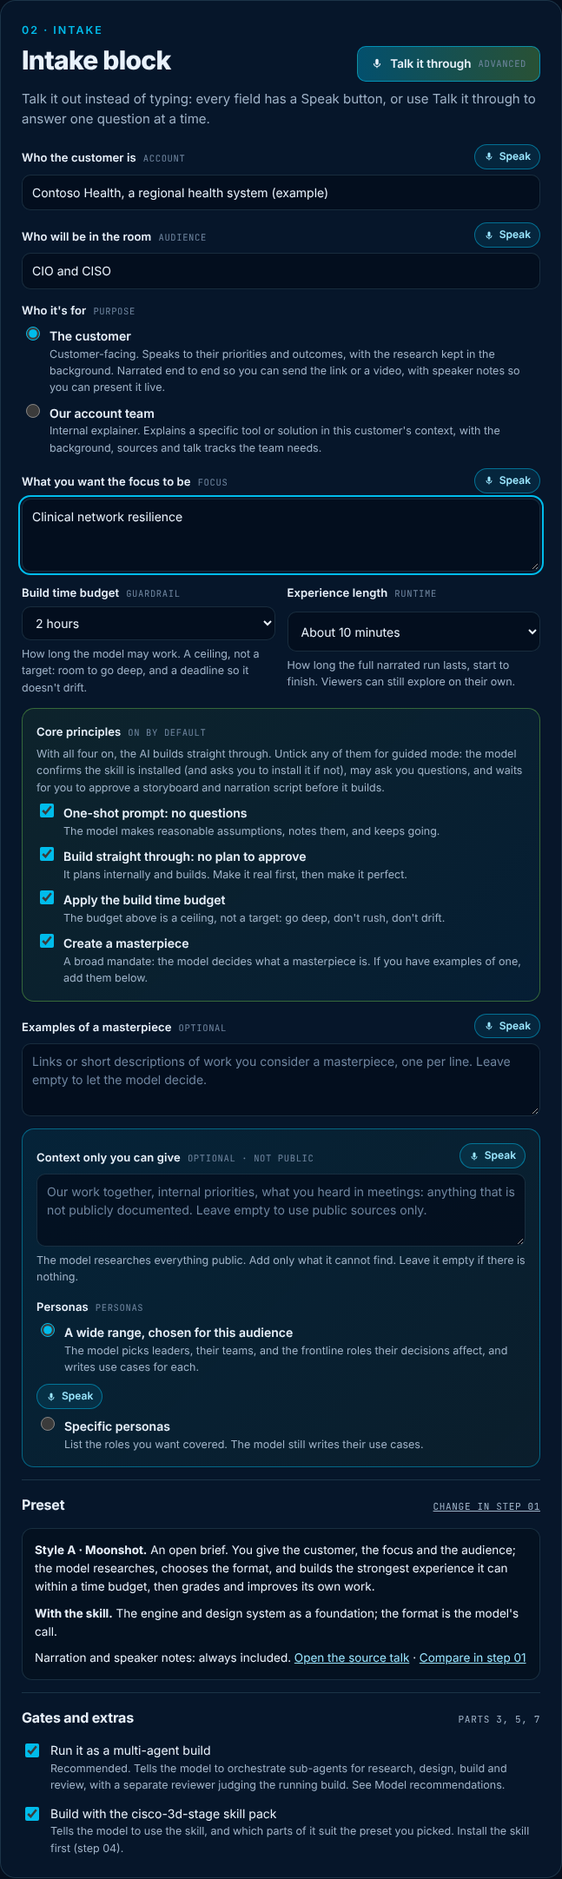
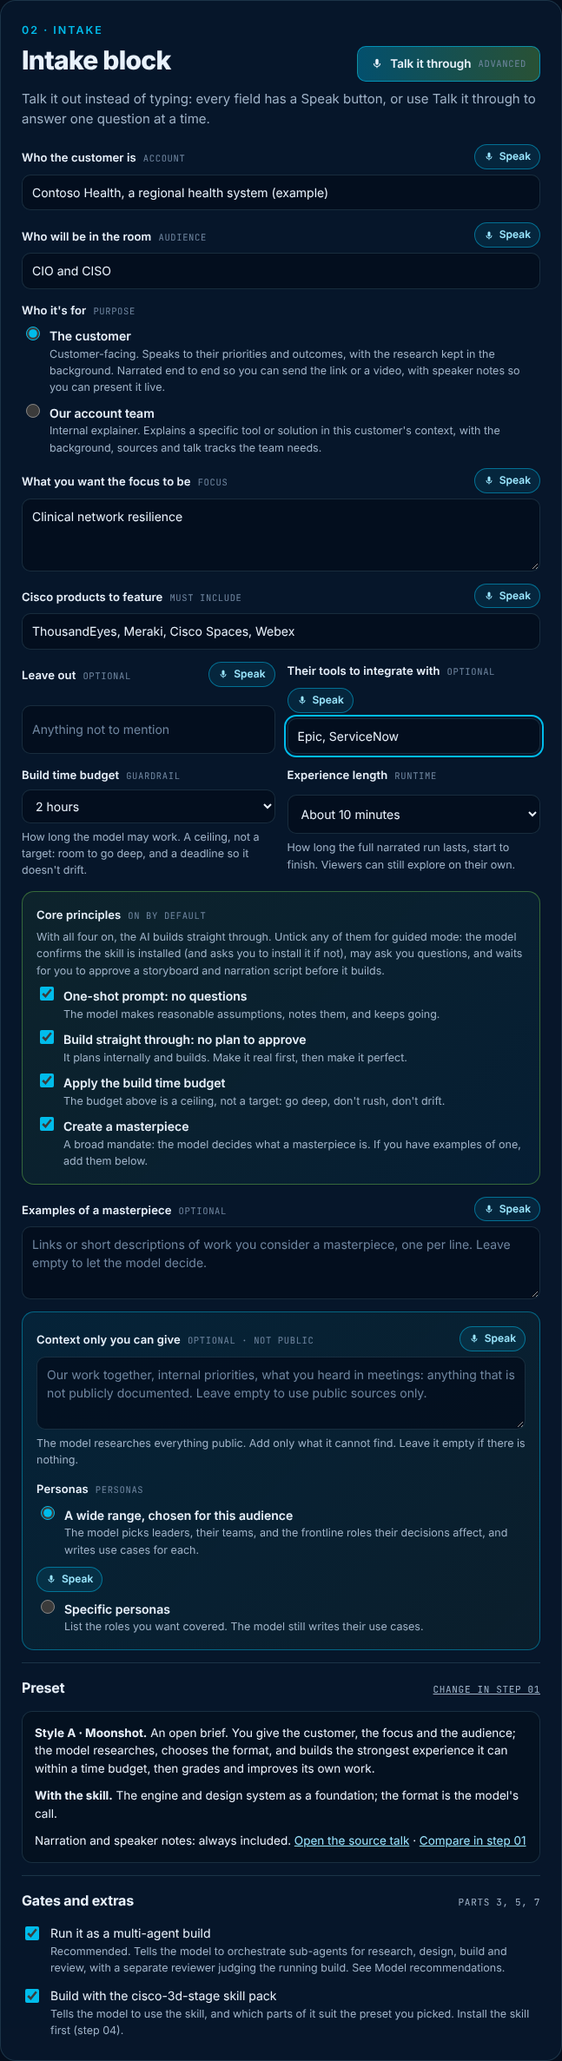
Rebuild the prompt around the CSX brief that worked
- Opening restores the original framework: Three.js in one self-contained
  app, real places and the people in them, persona or technology
  navigation, every scenario with Cisco and without
- New intake fields: Cisco products to feature, leave out, and the
  customer's tools to integrate with
- Research now ends in a build brief, with sources cited and modeled data
  labeled inside the app
- New finish line: publish, confirm it loads, test in a browser, hand back
- Shorter process sections; the skill's look is spelled out as a fallback
- README and screenshots updated

Claude-Session: https://claude.ai/code/session_01X663YSLF5CdbEPjMcVvjoP

Changed region(s): [[0.0309, 0.0, 0.9892, 1.0], [0.5564, 0.7434, 0.5873, 0.7744]]

diff --git a/index.html b/index.html
@@ -371,6 +371,20 @@ footer { font-size: 12.5px; color: var(--muted); display: grid; gap: 6px; max-wi
             <label for="f-discuss"><span class="structured-only">What to discuss</span><span class="moon-only">What you want the focus to be</span> <span class="key">FOCUS</span></label>
             <textarea id="f-discuss" name="discuss" placeholder="The one Cisco solution or use case, and the business problem it solves"></textarea>
           </div>
+          <div class="field">
+            <label for="f-products">Cisco products to feature <span class="key">MUST INCLUDE</span></label>
+            <input type="text" id="f-products" name="products" placeholder="e.g. ThousandEyes, Cyber Vision, ISE, Catalyst Center, Cisco Cloud Control">
+          </div>
+          <div class="row2">
+            <div class="field">
+              <label for="f-exclude">Leave out <span class="key">OPTIONAL</span></label>
+              <input type="text" id="f-exclude" name="exclude" placeholder="Anything not to mention">
+            </div>
+            <div class="field">
+              <label for="f-integrate">Their tools to integrate with <span class="key">OPTIONAL</span></label>
+              <input type="text" id="f-integrate" name="integrate" placeholder="e.g. Microsoft Sentinel, ServiceNow, Epic">
+            </div>
+          </div>
 
           <div class="row2">
             <div class="field">
@@ -416,7 +430,7 @@ footer { font-size: 12.5px; color: var(--muted); display: grid; gap: 6px; max-wi
           <div class="group-title structured-only"><h3>Evidence and cast</h3><span class="part">one per line</span></div>
 
           <div class="field structured-only">
-            <label for="f-items">Key items <span class="key">OPTIONAL</span></label>
+            <label for="f-items">Other must-haves <span class="key">OPTIONAL</span></label>
             <textarea id="f-items" name="items" placeholder="Anything that must appear: a fact, product, or program, with a link if you have one"></textarea>
           </div>
           <div class="field structured-only">
@@ -816,7 +830,7 @@ node tools/gen_docs.mjs ../narrated/audio/manifest.json</pre></div>
       ref: "https://brisk-valley-7hw3.here.now/", refName: "The one-shot workshop prompt from A spoken word away, the framework behind B to E",
       shape: "An open brief. You give the customer, the focus and the audience; the model researches, chooses the format, and builds the strongest experience it can within a time budget, then grades and improves its own work.",
       skillShort: "The engine and design system as a foundation; the format is the model's call.",
-      skillNote: "Use it for the Cisco design system and the 3D engine. It is a foundation, not a format: the format is yours to choose.",
+      skillNote: "It sets the look and the 3D engine, not the format.",
       narration: "optional",
       style: []
     },
@@ -932,7 +946,7 @@ node tools/gen_docs.mjs ../narrated/audio/manifest.json</pre></div>
   const CHECK_KEY = "csg-check-v1";
   const $ = (id) => document.getElementById(id);
   const form = $("brief");
-  const textFields = ["account", "audience", "where", "discuss", "items", "personas", "places", "scenarios", "assumptions", "output", "context", "mpersonas", "examples"];
+  const textFields = ["account", "audience", "where", "discuss", "items", "personas", "places", "scenarios", "assumptions", "output", "context", "mpersonas", "examples", "products", "exclude", "integrate"];
 
   function load(key) { try { return JSON.parse(localStorage.getItem(key) || "null"); } catch (e) { return null; } }
   function save(key, val) { try { localStorage.setItem(key, JSON.stringify(val)); } catch (e) {} }
@@ -979,113 +993,104 @@ node tools/gen_docs.mjs ../narrated/audio/manifest.json</pre></div>
   const val = (v) => v || TBD;
   const list = (v) => { const l = lines(v); return l.length ? l.map((x) => "  - " + x).join("\n") : "  " + TBD; };
 
-  function researchSection(acct, focus) {
-    return "§RESEARCH\n" +
-      "Before you design, research " + acct + ": the business, its strategy and current initiatives, and anything recent that matters to " + (focus ? "the focus" : "this audience") + ", such as earnings calls, filings, announcements, leadership changes, incidents or outages, and regulatory developments. Prioritize the last 12 months and note dates. Then research the Cisco solutions that fit, through that lens. Cite your sources. Where something is not public, make a reasonable assumption and say so in your reply.";
-  }
-  function purposeSection(s) {
-    const acct = val(s.account);
-    if (s.purpose === "internal") {
-      return "§WHO IT IS FOR\n" +
-        "This is an internal explainer for the Cisco account team, not for the customer. Explain " + (s.discuss || "the focus") + " in the context of " + acct + ": what it is, how it works, why it matters to this account, and how to position it" + (s.audience ? " with " + s.audience : "") + ". Background, sources, talk tracks and discovery questions belong here.\n" +
-        "Narrate it so it can be watched on its own, and include speaker notes for anyone presenting it. Disclose the narrator as AI.";
-    }
-    return "§WHO IT IS FOR\n" +
-      "This is customer-facing. It will be shown to " + val(s.audience) + " at " + acct + ". Speak to them about their priorities and the outcomes they care about. Use the research to shape the story, not to fill the screen: show only the facts that move the story forward, keep sources in a sources panel and the speaker notes, and leave out background they already know about their own organization. Do not address the account team, sales strategy, or discovery questions.\n" +
-      "It must work two ways: narrated from start to finish, so it can be sent as a link or a video when we cannot meet, and presented live, with speaker notes for every scene. Disclose the narrator as AI.";
-  }
-  const forPurpose = (arr, s) => arr.filter((x) => !/^\[(customer|internal)\]/.test(x) || x.startsWith("[" + (s.purpose === "internal" ? "internal" : "customer") + "]")).map((x) => x.replace(/^\[(customer|internal)\]/, ""));
   const hoursText = (h) => h === "0.5" ? "30 minutes" : h === "1" ? "1 hour" : h + " hours";
   const isGuided = (s) => !(s.oneshot && s.straight && s.timebox && s.masterpiece);
   const SKILL_FIND = "look for cisco-3d-stage/SKILL.md in your skills folder, such as ~/.claude/skills or the project's .claude/skills";
-  function workSection(s) {
+  const SKILL_LOOK = "midnight navy backgrounds, Cisco blue #00bceb and green #6cc04a, glass panels, Inter type, and lit 3D scenes with crisp labels";
+  const forPurpose = (arr, s) => arr.filter((x) => !/^\[(customer|internal)\]/.test(x) || x.startsWith("[" + (s.purpose === "internal" ? "internal" : "customer") + "]")).map((x) => x.replace(/^\[(customer|internal)\]/, ""));
+  const listOrBlank = (v) => lines(v.replace(/,\s*/g, "\n")).join(", ");
+
+  function opening(s) {
+    const acct = val(s.account), internal = s.purpose === "internal";
     const L = [];
+    L.push("Build an interactive Three.js 3D experience, bundled into one self-contained web app I can present and share as a link" + (s.style === "A" ? "." : ", in the format described under STYLE."));
+    L.push("The customer is " + acct + ". Show their real places and the people in them.");
+    L.push(internal
+      ? "It explains " + val(s.discuss) + " to our account team, in this customer's context."
+      : "I want to discuss " + val(s.discuss) + ". The audience is " + val(s.audience) + ".");
+    if (s.style !== "C") L.push("Organize it so they can navigate by persona or by technology, and tell every scenario with Cisco and without.");
+    const prod = listOrBlank(s.products || ""), ex = listOrBlank(s.exclude || ""), integ = listOrBlank(s.integrate || "");
+    if (prod) L.push("It must include: " + prod + ".");
+    if (ex) L.push("Do not mention " + ex + ".");
+    if (integ) L.push("Call out integration points with " + integ + " wherever they genuinely exist.");
+    if (s.style === "A") L.push("Beyond that, the format, story and visual approach are yours to choose.");
+    return L.join(" ");
+  }
+  function workSection(s) {
     if (!isGuided(s)) {
-      L.push("This is a one-shot prompt. Do not ask me any questions, and do not stop to show me a plan, outline or storyboard for approval: plan internally, then build. Where something is unclear, make a reasonable assumption, note it, and keep going.");
-      L.push("Make it real, then make it perfect: get a complete, working version running end to end first, then use the rest of your time to improve it.");
-      L.push("You have up to " + hoursText(s.hours) + " of working time. It is a ceiling, not a target: take the time to research deeply, design carefully and iterate, and do not rush to a first draft. Finish early only when the work clears the bar. Note the time when you start and check it as you go; as the limit nears, finish and polish what you have instead of starting something new.");
-      return "§HOW TO WORK\n" + L.join("\n");
+      return "§HOW TO WORK\n" +
+        "Do not ask me any questions. This is a one-shot task: do not stop to show me a plan or storyboard for approval. Make reasonable assumptions and document them in an Assumptions panel.\n" +
+        "Make it real, then make it perfect: a complete, working version first, then improve it.\n" +
+        "You have up to " + hoursText(s.hours) + " of work. It is a ceiling, not a target: do not rush, and as the limit nears, finish and polish instead of starting something new.";
     }
-    L.push("Work with me through these steps, in order, and wait for my OK wherever a step says so:");
     const steps = [];
-    if (s.skill) steps.push("Confirm the cisco-3d-stage skill is installed: " + SKILL_FIND + ". If you cannot find it, stop, ask me to install it, and wait until I confirm. The visuals depend on it.");
-    steps.push(s.oneshot ? "Do not ask me questions; make reasonable assumptions and note them." : "If anything critical is missing, ask me up to three short questions, and wait for my answers.");
-    steps.push("Research, then show me a storyboard and the narration script: one panel per scene with what is on screen, the on-screen words, the narration line, and the duration. Wait for my OK, and change it as I ask.");
-    steps.push("Build to the approved storyboard and script. Make it real first, end to end, then make it better.");
-    steps.push("When it is built, list every estimate and every assumption so I can check them before I present.");
-    L.push(steps.map((x, i) => (i + 1) + ". " + x).join("\n"));
-    if (s.timebox) L.push("You have up to " + hoursText(s.hours) + " of working time, not counting the time you wait for me. It is a ceiling, not a target: go deep, and do not rush.");
-    return "§HOW TO WORK\n" + L.join("\n");
+    if (s.skill) steps.push("Confirm the cisco-3d-stage skill is installed: " + SKILL_FIND + ". If you cannot find it, ask me to install it and wait.");
+    steps.push(s.oneshot ? "Do not ask me questions; make reasonable assumptions and document them." : "If anything critical is missing, ask me up to three short questions and wait for my answers.");
+    steps.push("Do the research and the build brief, then show me a storyboard and the narration script: one panel per scene with what is on screen, the on-screen words, the narration line, and the duration. Wait for my OK.");
+    steps.push("Build to the approved storyboard and script. Make it real first, then make it better.");
+    return "§HOW TO WORK\nWork with me through these steps, in order:\n" + steps.map((x, i) => (i + 1) + ". " + x).join("\n") +
+      (s.timebox ? "\nYou have up to " + hoursText(s.hours) + " of work, not counting time spent waiting for me. It is a ceiling, not a target." : "");
+  }
+  function purposeSection(s) {
+    const len = s.length === "model" ? "Choose the length that suits the audience." : "The full narrated run should last about " + s.length + " minutes.";
+    if (s.purpose === "internal") {
+      return "§WHO IT IS FOR\nOur Cisco account team, not the customer. Explain how it works, why it matters to this account, and how to position it" + (s.audience ? " with " + s.audience : "") + ", with talk tracks and discovery questions. Narrate it and include speaker notes; disclose the narrator as AI. " + len;
+    }
+    return "§WHO IT IS FOR\nCustomer-facing, for " + val(s.audience) + ". Speak to their priorities and outcomes. Narrate it end to end so it can be sent as a link or a video, and include speaker notes for presenting it live; disclose the narrator as AI. " + len;
+  }
+  function researchSection(s) {
+    return "§RESEARCH\n" +
+      "Research is mandatory: research the customer's business, initiatives, recent news, public challenges and outages, and locations, then research the Cisco solutions through that lens. Prioritize the last 12 months.\n" +
+      "Before you build, turn the research into a build brief: their real places, the real roles of the people in them, and scenarios grounded in documented events, with the accurate facts each product contributes.\n" +
+      "Cite sources in the app and label modeled data.";
+  }
+  function buildSection(s, note) {
+    const L = [];
+    if (s.skill) {
+      L.push("Use the cisco-3d-stage skill for every visual (read SKILL.md and its references first). " + note);
+      if (!isGuided(s)) L.push("If it is not installed, do not stop: keep its look (" + SKILL_LOOK + "), and tell me at the end that it was missing.");
+    } else L.push("Make the visuals presentation-grade: " + SKILL_LOOK + ".");
+    if (s.orch) L.push("If you can run sub-agents, orchestrate: research, build and review in parallel, with a separate reviewer checking the running build.");
+    return "§BUILD\n" + L.join("\n");
+  }
+  function finishSection(s) {
+    return "§WHEN IT IS BUILT\nPublish it to a shareable URL and confirm it loads. Test it in a browser at desktop and phone width and fix what you find. Then give me the link, the sources and the assumptions" +
+      (s.skill && !isGuided(s) ? ", and say whether the cisco-3d-stage skill was installed." : ".");
   }
   function masterpieceSection(s) {
     const ex = lines(s.examples);
-    return "§CREATE A MASTERPIECE\nCreate a masterpiece." +
-      (ex.length ? "\nHere is what a masterpiece looks like to me. Treat these as a bar to clear, not a template to copy:\n" + ex.map((x) => "- " + x).join("\n") : "");
+    return "Create a masterpiece." + (ex.length ? "\nHere is what a masterpiece looks like to me. Treat these as a bar to clear, not a template to copy:\n" + ex.map((x) => "- " + x).join("\n") : "");
   }
-  function timeSection(s) {
-    return "§LENGTH\n" +
-      (s.length === "model"
-        ? "Choose the length of the finished experience to suit this audience, and tell me what you chose."
-        : "The full narrated run should last about " + s.length + " minutes from start to finish. Viewers can explore beyond that on their own.");
-  }
-  function orchSection() {
-    return "§HOW TO RUN THIS\nIf your environment can run sub-agents, act as the orchestrator: give research, design, build and review to separate agents working in parallel, and have a separate reviewer agent judge the running build. If it cannot, work through the same phases yourself, in order.";
-  }
-  function skillSection(note, s) {
-    return "§SKILL\nUse the cisco-3d-stage skill for every visual: the 3D scenes, palette, type, glass panels and motion come from it, not from a generic template or a plain page. Read SKILL.md and its references first. " + note + "\n" +
-      (isGuided(s)
-        ? "If you could not confirm the skill in step 1, do not build without it."
-        : "Check that it is installed: " + SKILL_FIND + ". If it is not, do not stop to ask: build as close to its design system as you can, and tell me at the end that it was missing so I can install it.");
-  }
-
-  const handback = (s) => "When you are done, give me the link" + "" + " and the assumptions you made" + (s.skill && !isGuided(s) ? ", and say whether the cisco-3d-stage skill was installed." : ".");
 
   function buildMoon(s) {
-    const out = [];
-    out.push("Build an interactive, self contained web experience that I can present and share as a link. " +
-      "The customer is " + val(s.account) + ". I want the focus to be " + val(s.discuss) + ". " + (s.purpose === "internal" ? "It is for our account team." : "The audience is " + val(s.audience) + "."));
-    out.push(workSection(s));
-    out.push("The format, story, structure and visual style are yours to choose. Use the most advanced graphics and presentation techniques you can deliver well.");
-    out.push(purposeSection(s));
-    out.push(timeSection(s));
-    out.push(researchSection(val(s.account), s.discuss));
+    const out = [opening(s), workSection(s), purposeSection(s), researchSection(s)];
     const ctx = lines(s.context);
     if (ctx.length) out.push("§CONTEXT FROM ME (not public)\n" + ctx.map((x) => "- " + x).join("\n"));
-    out.push("§PERSONAS\n" + (s.pmode === "specific" && lines(s.mpersonas).length
-      ? "Cover these personas, and create use cases for each:\n" + lines(s.mpersonas).map((x) => "- " + x).join("\n")
-      : "Choose the personas that matter to this audience, as many as the story needs, and create use cases for each."));
-    if (s.orch) out.push(orchSection());
-    if (s.skill) out.push(skillSection(STYLES.A.skillNote, s));
+    if (s.pmode === "specific" && lines(s.mpersonas).length) out.push("§PERSONAS\nCover these personas, with use cases for each:\n" + lines(s.mpersonas).map((x) => "- " + x).join("\n"));
+    out.push(buildSection(s, STYLES.A.skillNote));
+    out.push(finishSection(s));
     if (s.masterpiece) out.push(masterpieceSection(s));
-    out.push(handback(s));
     return out.join("\n\n");
   }
 
   function buildPrompt(s) {
     if (s.style === "A") return buildMoon(s);
     const st = STYLES[s.style];
-    const out = [];
-    out.push("Build an interactive, self contained web experience that I can present and share as a link, in the style described below. " +
-      "The customer is " + val(s.account) + ". " + (s.purpose === "internal" ? "It is for our account team." : "The audience is " + val(s.audience) + ".") + " The focus is " + val(s.discuss) + ".");
-    out.push(workSection(s));
-    out.push(purposeSection(s));
-    out.push(timeSection(s));
-    out.push(researchSection(val(s.account), s.discuss));
+    const out = [opening(s), workSection(s), purposeSection(s), researchSection(s)];
     const known = [];
     const add = (label, v) => { const l = lines(v); if (l.length) known.push(label + ":\n" + l.map((x) => "- " + x).join("\n")); };
     add("Where they are", s.where);
-    add("Must include", s.items);
+    add("Other must-haves", s.items);
     add("Personas", s.personas);
     add("Places", s.places);
     add("Scenarios", s.scenarios);
     add("Assumptions", s.assumptions);
     add("Output", s.output);
-    if (known.length) out.push("§WHAT I ALREADY KNOW\nUse this alongside your research.\n\n" + known.join("\n\n"));
-    out.push("§STYLE: " + st.name.toUpperCase() + "\nBuild exactly this format. Everything inside it (the story, scenes, scenarios, personas and figures) comes from your research and what I gave you.\n" + forPurpose(st.style, s).concat(OPTIONS.filter((o) => (s.opts || []).includes(o.id)).map((o) => o.text)).map((x) => "- " + x).join("\n"));
-    if (s.orch) out.push(orchSection());
-    if (s.skill) out.push(skillSection(st.skillNote + " Where the skill's defaults differ from the style above, follow the style.", s));
+    if (known.length) out.push("§WHAT I ALREADY KNOW\n" + known.join("\n\n"));
+    out.push("§STYLE: " + st.name.toUpperCase() + "\nBuild exactly this format; everything inside it comes from your research and what I gave you.\n" + forPurpose(st.style, s).concat(OPTIONS.filter((o) => (s.opts || []).includes(o.id)).map((o) => o.text)).map((x) => "- " + x).join("\n"));
+    out.push(buildSection(s, st.skillNote + " Where the skill's defaults differ from the style, follow the style."));
+    out.push(finishSection(s));
     if (s.masterpiece) out.push(masterpieceSection(s));
-    out.push(handback(s));
     return out.join("\n\n");
   }
 
@@ -1102,6 +1107,7 @@ node tools/gen_docs.mjs ../narrated/audio/manifest.json</pre></div>
     if (s.purpose !== "internal") req.push(["audience", "Audience"]);
     const miss = req.filter(([k]) => !s[k]).map(([, l]) => l);
     checks.push(miss.length ? { flag: true, t: "Still empty: " + miss.join(", ") + "." } : { flag: false, t: "The basics are set." });
+    checks.push(s.products ? { flag: false, t: "Featuring: " + s.products + "." } : { flag: true, t: "No Cisco products named. The model will choose; naming them gives a sharper story." });
     checks.push({ flag: false, t: s.purpose === "internal" ? "Internal explainer for the account team: background, sources and talk tracks included." : "Customer-facing: narrated end to end for sending, with speaker notes for presenting live." });
     if (s.style === "A") {
       if (s.pmode === "specific" && !lines(s.mpersonas).length) checks.push({ flag: true, t: "Specific personas is selected but none are listed." });
@@ -1837,7 +1843,10 @@ node tools/gen_docs.mjs ../narrated/audio/manifest.json</pre></div>
       { k: "account", q: "Who is the customer?", h: "The organization, and what they do, in a sentence." },
       { k: "purpose", q: "Who is this for?", h: "Customer-facing, or an internal explainer for the account team.", choices: [["customer", "The customer"], ["internal", "Our account team"]] },
       { k: "audience", q: internal ? "Which customer stakeholders does this prepare the team for?" : "Who will be in the room?", h: internal ? "Optional. Roles are enough." : "Their roles, and the decision they own." },
-      { k: "discuss", q: internal ? "Which tool or solution should it explain?" : "What do you want the focus to be?", h: "A sentence or two is plenty." }
+      { k: "discuss", q: internal ? "Which tool or solution should it explain?" : "What do you want the focus to be?", h: "A sentence or two is plenty." },
+      { k: "products", q: "Which Cisco products should it feature?", h: "Name them. Say skip to let the model choose." },
+      { k: "exclude", q: "Is there anything it should leave out?", h: "Optional. Say skip if not." },
+      { k: "integrate", q: "Which of their tools should it show integrations with?", h: "Optional, for example their SIEM or ITSM. Say skip if not." }
     ];
     q.push({ k: "hours", q: "How long may the model work on the build?", h: "A ceiling, not a target. It can finish early if the work clears the bar.", choices: [["0.5", "30 minutes"], ["1", "1 hour"], ["2", "2 hours"], ["4", "4 hours"], ["8", "8 hours"]] });
     q.push({ k: "length", q: "How long should the finished experience run?", h: "The full narrated run, start to finish.", choices: [["5", "5 min"], ["10", "10 min"], ["15", "15 min"], ["20", "20 min"], ["30", "30 min"], ["model", "Model decides"]] });

diff --git a/README.md b/README.md
@@ -50,13 +50,16 @@ Six format cards sit at the top of the page. Pick one and go straight to the int
 
 ### 02 · Fill the intake
 
-Three fields are all you need:
+Three fields are required, and naming the Cisco products is strongly recommended:
 
 | Field | What to enter |
 | --- | --- |
 | Who the customer is | The organization and what it does, in a sentence. |
 | Who will be in the room | Roles, seniority and the decision they own. |
 | What you want the focus to be | The solution, use case or business problem to build around. |
+| Cisco products to feature | The products the story must include. Naming them gives a much sharper story. |
+| Leave out (optional) | Anything the build should not mention. |
+| Their tools to integrate with (optional) | The customer's own tools, such as their SIEM or ITSM, so the build calls out real integration points. |
 
 Then set:
 
@@ -131,21 +134,19 @@ Four principles are on by default for every style. Together they make the AI too
 
 ## What goes into the prompt
 
-Every prompt is short and generic, so the model's own research shapes the story. The sections, in order:
+The prompt follows the brief that produced the CSX wayside build: short, and almost entirely about the customer and the story. The Moonshot prompt for a typical brief is about 450 words.
 
 | Section | Contents |
 | --- | --- |
-| Opening line | The customer, the audience and the focus. |
-| How to work | The core principles, or the guided process. |
-| Who it is for | Customer-facing or internal explainer, with narration and speaker notes. |
-| Length | The narrated runtime. |
-| Research | The customer's business, strategy, current initiatives and anything recent: earnings calls, filings, announcements, leadership changes, incidents and regulatory news, prioritizing the last 12 months. Then the Cisco solutions that fit. |
+| Opening | "Build an interactive Three.js 3D experience, bundled into one self-contained web app I can present and share as a link." The customer, with "Show their real places and the people in them." The focus and the audience. "Organize it so they can navigate by persona or by technology, and tell every scenario with Cisco and without." The products it must include, what not to mention, and the integration points to call out. |
+| How to work | The core principles in three lines, or the guided process. |
+| Who it is for | Customer-facing or internal, narrated end to end with speaker notes, and the runtime. |
+| Research | Mandatory: the customer's business, initiatives, recent news, public challenges and outages, and locations, then the Cisco solutions through that lens. The model turns the research into a build brief (real places, real roles, scenarios grounded in documented events) before it builds. Sources are cited in the app and modeled data is labeled. |
 | What I already know | Only the optional fields you filled (styles B to F). |
-| Style | The format to build exactly, plus any optional components you ticked (styles B to F). Moonshot leaves the format to the model. |
-| How to run this | Orchestrate sub-agents for research, design, build and review, with a separate reviewer. |
-| Skill | Use `cisco-3d-stage` for every visual. In one-shot mode, check it is installed and report if it was missing; in guided mode, stop and ask. |
-| Create a masterpiece | The mandate, plus your examples if any. |
-| Hand-back | The link, the assumptions made, and whether the skill was installed. |
+| Style | The format to build exactly, plus any optional components you ticked (styles B to F). |
+| Build | Use the `cisco-3d-stage` skill for every visual, with its look spelled out in case it is missing, and orchestrate sub-agents if the tool can. |
+| When it is built | Publish to a shareable URL and confirm it loads, test at desktop and phone width and fix what turns up, then hand back the link, sources and assumptions. |
+| Create a masterpiece | The closing line, plus your examples if any. |
 
 ## Talking instead of typing
 
